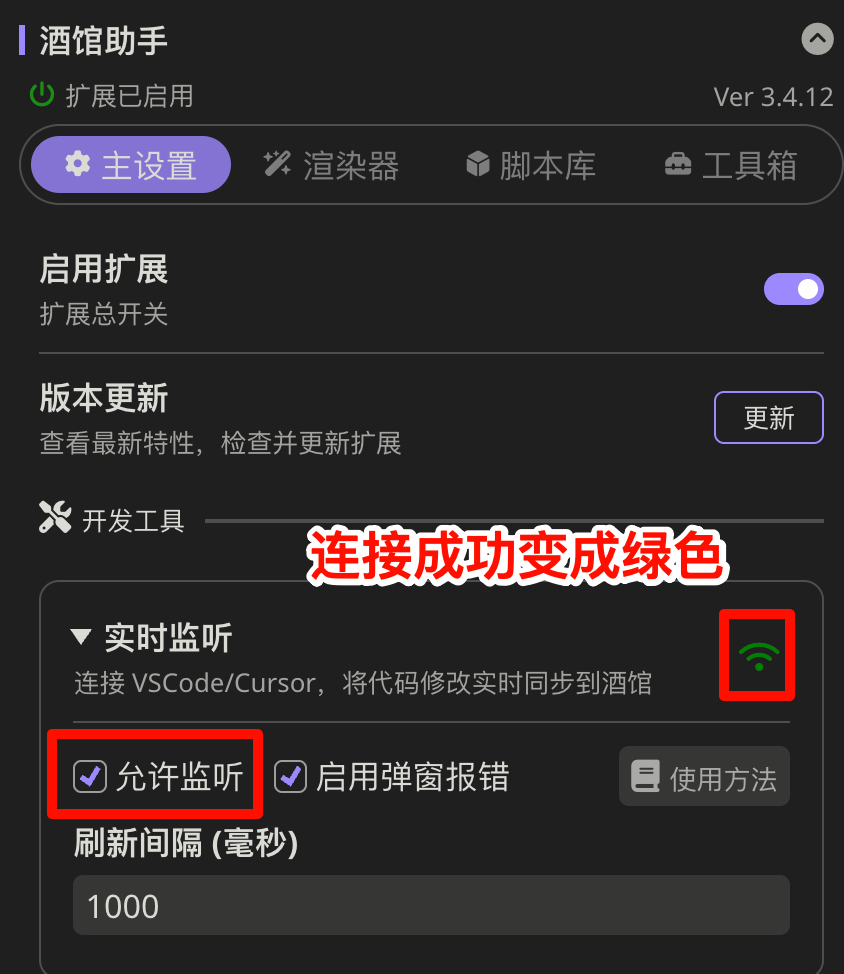
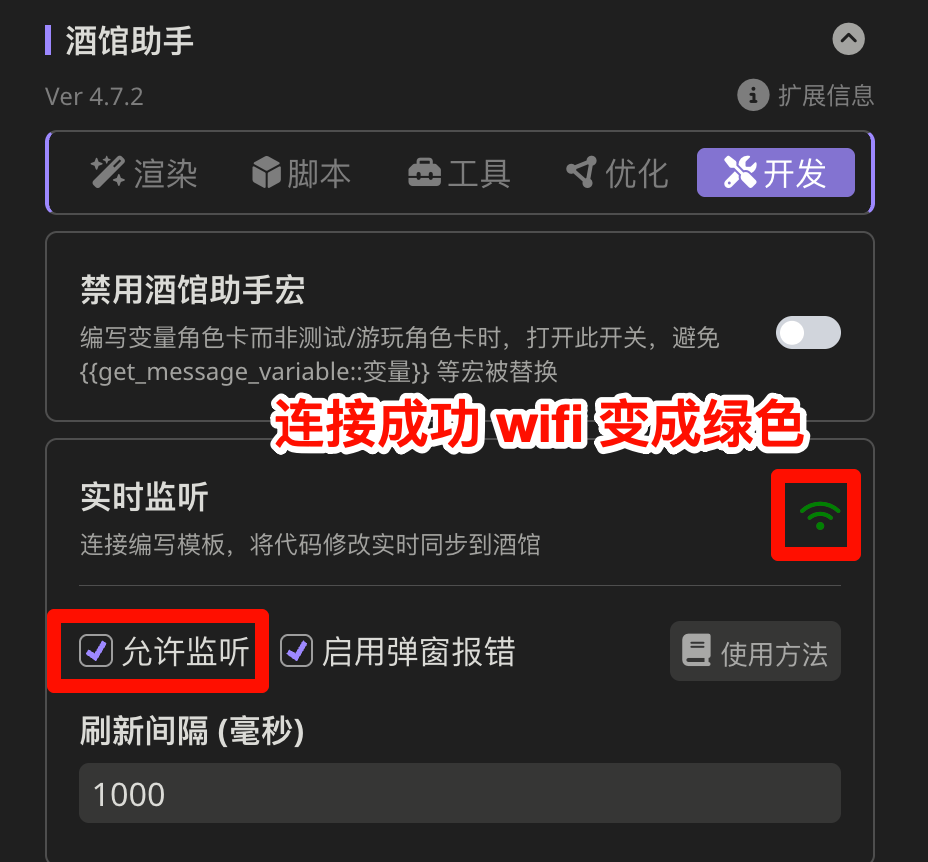
feat: 4.7.0 酒馆助手界面

diff --git a/青空莉/工具经验/实时编写前端界面或脚本/阅读示例/index.md b/青空莉/工具经验/实时编写前端界面或脚本/阅读示例/index.md
@@ -4,7 +4,7 @@
 
 让我们导入{download}`示例角色卡 <../示例.png>`, 来理解脚本和前端界面的作用和区别.
 
-导入角色卡后, 我们通过扩展设置, 可以在{menuselection}`酒馆助手 --> 脚本库`和{menuselection}`正则`中分别看到该角色卡有以下角色脚本和局部正则:
+导入角色卡后, 我们通过扩展设置, 可以在{menuselection}`酒馆助手 --> 脚本`和{menuselection}`正则`中分别看到该角色卡有以下角色脚本和局部正则:
 
 :::{figure} 打开角色卡.png
 :::
@@ -46,7 +46,7 @@
 :::{figure} 监听脚本关闭事件.png
 :::
 
-如果你点击{menuselection}`酒馆助手 --> 脚本库 --> 内置库`并添加`预设防误触`脚本, 就会发现你在开启脚本时不能修改预设设置, 关闭脚本后可以修改. 这其实就是脚本在启用时执行了一段代码, 让你不能修改预设设置; 而又监听 "脚本被关闭" 事件, 在脚本关闭时执行代码重新允许你修改预设设置.
+如果你点击{menuselection}`酒馆助手 --> 脚本 --> 内置库`并添加`预设防误触`脚本, 就会发现你在开启脚本时不能修改预设设置, 关闭脚本后可以修改. 这其实就是脚本在启用时执行了一段代码, 让你不能修改预设设置; 而又监听 "脚本被关闭" 事件, 在脚本关闭时执行代码重新允许你修改预设设置.
 
 总的来说, 脚本的作用就是:
 

diff --git a/青空莉/工具经验/实时编写前端界面或脚本/实际编写/index.md b/青空莉/工具经验/实时编写前端界面或脚本/实际编写/index.md
@@ -103,7 +103,7 @@
 
 #### 将酒馆与打包监听器连接
 
-酒馆助手已经为我们实现了酒馆与打包监听器 `pnpm watch` 的连接, 我们从{menuselection}`酒馆助手 --> 实时监听`中启用{menuselection}`允许监听`即可.
+酒馆助手已经为我们实现了酒馆与打包监听器 `pnpm watch` 的连接, 我们从{menuselection}`酒馆助手 --> 开发 --> 实时监听`中启用{menuselection}`允许监听`即可.
 
 如果我们已经运行 `pnpm watch`, 则实时监听右边的 WiFi 图标会变成绿色, 这意味着酒馆已经能知道打包结果是否发生变化.
 
@@ -240,7 +240,7 @@ AI 使用 MCP 时会有很明显的显示
 
 在 `src` 文件夹中用`初始模板`新建项目.
 
-在{menuselection}`酒馆正则`中导入`初始模板`中的实时修改正则 (编写脚本则在{menuselection}`酒馆助手 --> 脚本库`中导入实时修改脚本), 并将其中的链接替换为打包结果链接.
+在{menuselection}`酒馆正则`中导入`初始模板`中的实时修改正则 (编写脚本则在{menuselection}`酒馆助手 --> 脚本`中导入实时修改脚本), 并将其中的链接替换为打包结果链接.
 
 ### 进行编写
 

diff --git a/青空莉/工具经验/实时编写前端界面或脚本/进阶技巧/index.md b/青空莉/工具经验/实时编写前端界面或脚本/进阶技巧/index.md
@@ -259,7 +259,7 @@ noass 等压缩相邻消息、合并消息的功能就是这么做的, 例如{do
 
 最简单的方式是利用 [jsdelivr](https://www.jsdelivr.com/) 为 github 文件提供的 CDN 功能. 对于上传在 `github.com/组织名/仓库名` 中 `路径` 下的文件, 你可以直接用 `https://testingcf.jsdelivr.net/gh/组织名/仓库名/路径` 来访问它们.
 
-酒馆助手内置库即采用了这种方法. 例如, 如果你从{menuselection}`酒馆助手 --> 脚本库 --> 内置库`中导入[`标签化`](https://github.com/StageDog/tavern_resource/blob/main/src/酒馆助手/标签化/index.ts), 编辑它就会发现它的代码里仅有一行:
+酒馆助手内置库即采用了这种方法. 例如, 如果你从{menuselection}`酒馆助手 --> 脚本 --> 内置库`中导入[`标签化`](https://github.com/StageDog/tavern_resource/blob/main/src/酒馆助手/标签化/index.ts), 编辑它就会发现它的代码里仅有一行:
 
 ```js
 import 'https://testingcf.jsdelivr.net/gh/StageDog/tavern_resource/dist/酒馆助手/标签化/index.js'

diff --git a/络络/教程/手写mvu变量卡/设置和初始化变量/index.md b/络络/教程/手写mvu变量卡/设置和初始化变量/index.md
@@ -98,7 +98,7 @@ $(() => {
 
 这个变量结构是一个酒馆助手脚本, 规定了我们的变量应该是怎么样的. 门之主写卡助手会在生成后稍微解释一下它做到了什么功能, **但其实你不用太在意该怎么自己读懂它**, 之后在{doc}`/络络/教程/手写mvu变量卡/手写变量结构/index`中我会详细解释的qwq.
 
-既然是一个酒馆助手脚本, 让我们点开脚本库来添加它! 和之前添加 MVU 本体脚本一样, 我们点开{menuselection}`酒馆右上角积木按钮 --> 酒馆助手 --> 脚本库`, 点击{menuselection}`+ 脚本`来新建一个名叫`变量结构`的角色脚本, 内容就填写刚刚那个脚本的内容.
+既然是一个酒馆助手脚本, 让我们点开脚本库来添加它! 和之前添加 MVU 本体脚本一样, 我们点开{menuselection}`酒馆右上角积木按钮 --> 酒馆助手 --> 脚本`, 点击{menuselection}`+ 脚本`来新建一个名叫`变量结构`的角色脚本, 内容就填写刚刚那个脚本的内容.
 
 ## 初始化变量
 

diff --git a/络络/教程/手写mvu变量卡/安装插件和导入脚本/index.md b/络络/教程/手写mvu变量卡/安装插件和导入脚本/index.md
@@ -15,7 +15,7 @@
 
 在安装好插件后, 我们就能为角色卡添加 MVU 变量框架了——
 
-让我们像视频里那样新建一个角色卡, 点开{menuselection}`酒馆右上角积木按钮 --> 酒馆助手 --> 脚本库`, 点击{menuselection}`+ 脚本`来新建一个角色脚本, 命名……不如就叫 `MVU` 吧! 内容按下面这样填写:
+让我们像视频里那样新建一个角色卡, 点开{menuselection}`酒馆右上角积木按钮 --> 酒馆助手 --> 脚本`, 点击{menuselection}`+ 脚本`来新建一个角色脚本, 命名……不如就叫 `MVU` 吧! 内容按下面这样填写:
 
 ```ts
 import 'https://testingcf.jsdelivr.net/gh/MagicalAstrogy/MagVarUpdate/artifact/bundle.js';

diff --git a/青空莉/工具经验/实时编写角色卡、世界书或预设/安装脚本/index.md b/青空莉/工具经验/实时编写角色卡、世界书或预设/安装脚本/index.md
@@ -10,7 +10,7 @@
 
 为了让酒馆能接收本地服务端脚本的信息, 我们需要在酒馆中安装客户端脚本.
 
-这也很简单: 我们先安装[酒馆助手](https://n0vi028.github.io/JS-Slash-Runner-Doc/guide/关于酒馆助手/安装与更新.html), 然后在{menuselection}`酒馆助手设置页 --> 脚本库 --> 新建`脚本, 内容填写为:
+这也很简单: 我们先安装[酒馆助手](https://n0vi028.github.io/JS-Slash-Runner-Doc/guide/关于酒馆助手/安装与更新.html), 然后在{menuselection}`酒馆助手设置页 --> 脚本 --> 新建`脚本, 内容填写为:
 
 ```ts
 import 'https://testingcf.jsdelivr.net/gh/StageDog/tavern_sync/dist/script.js'
